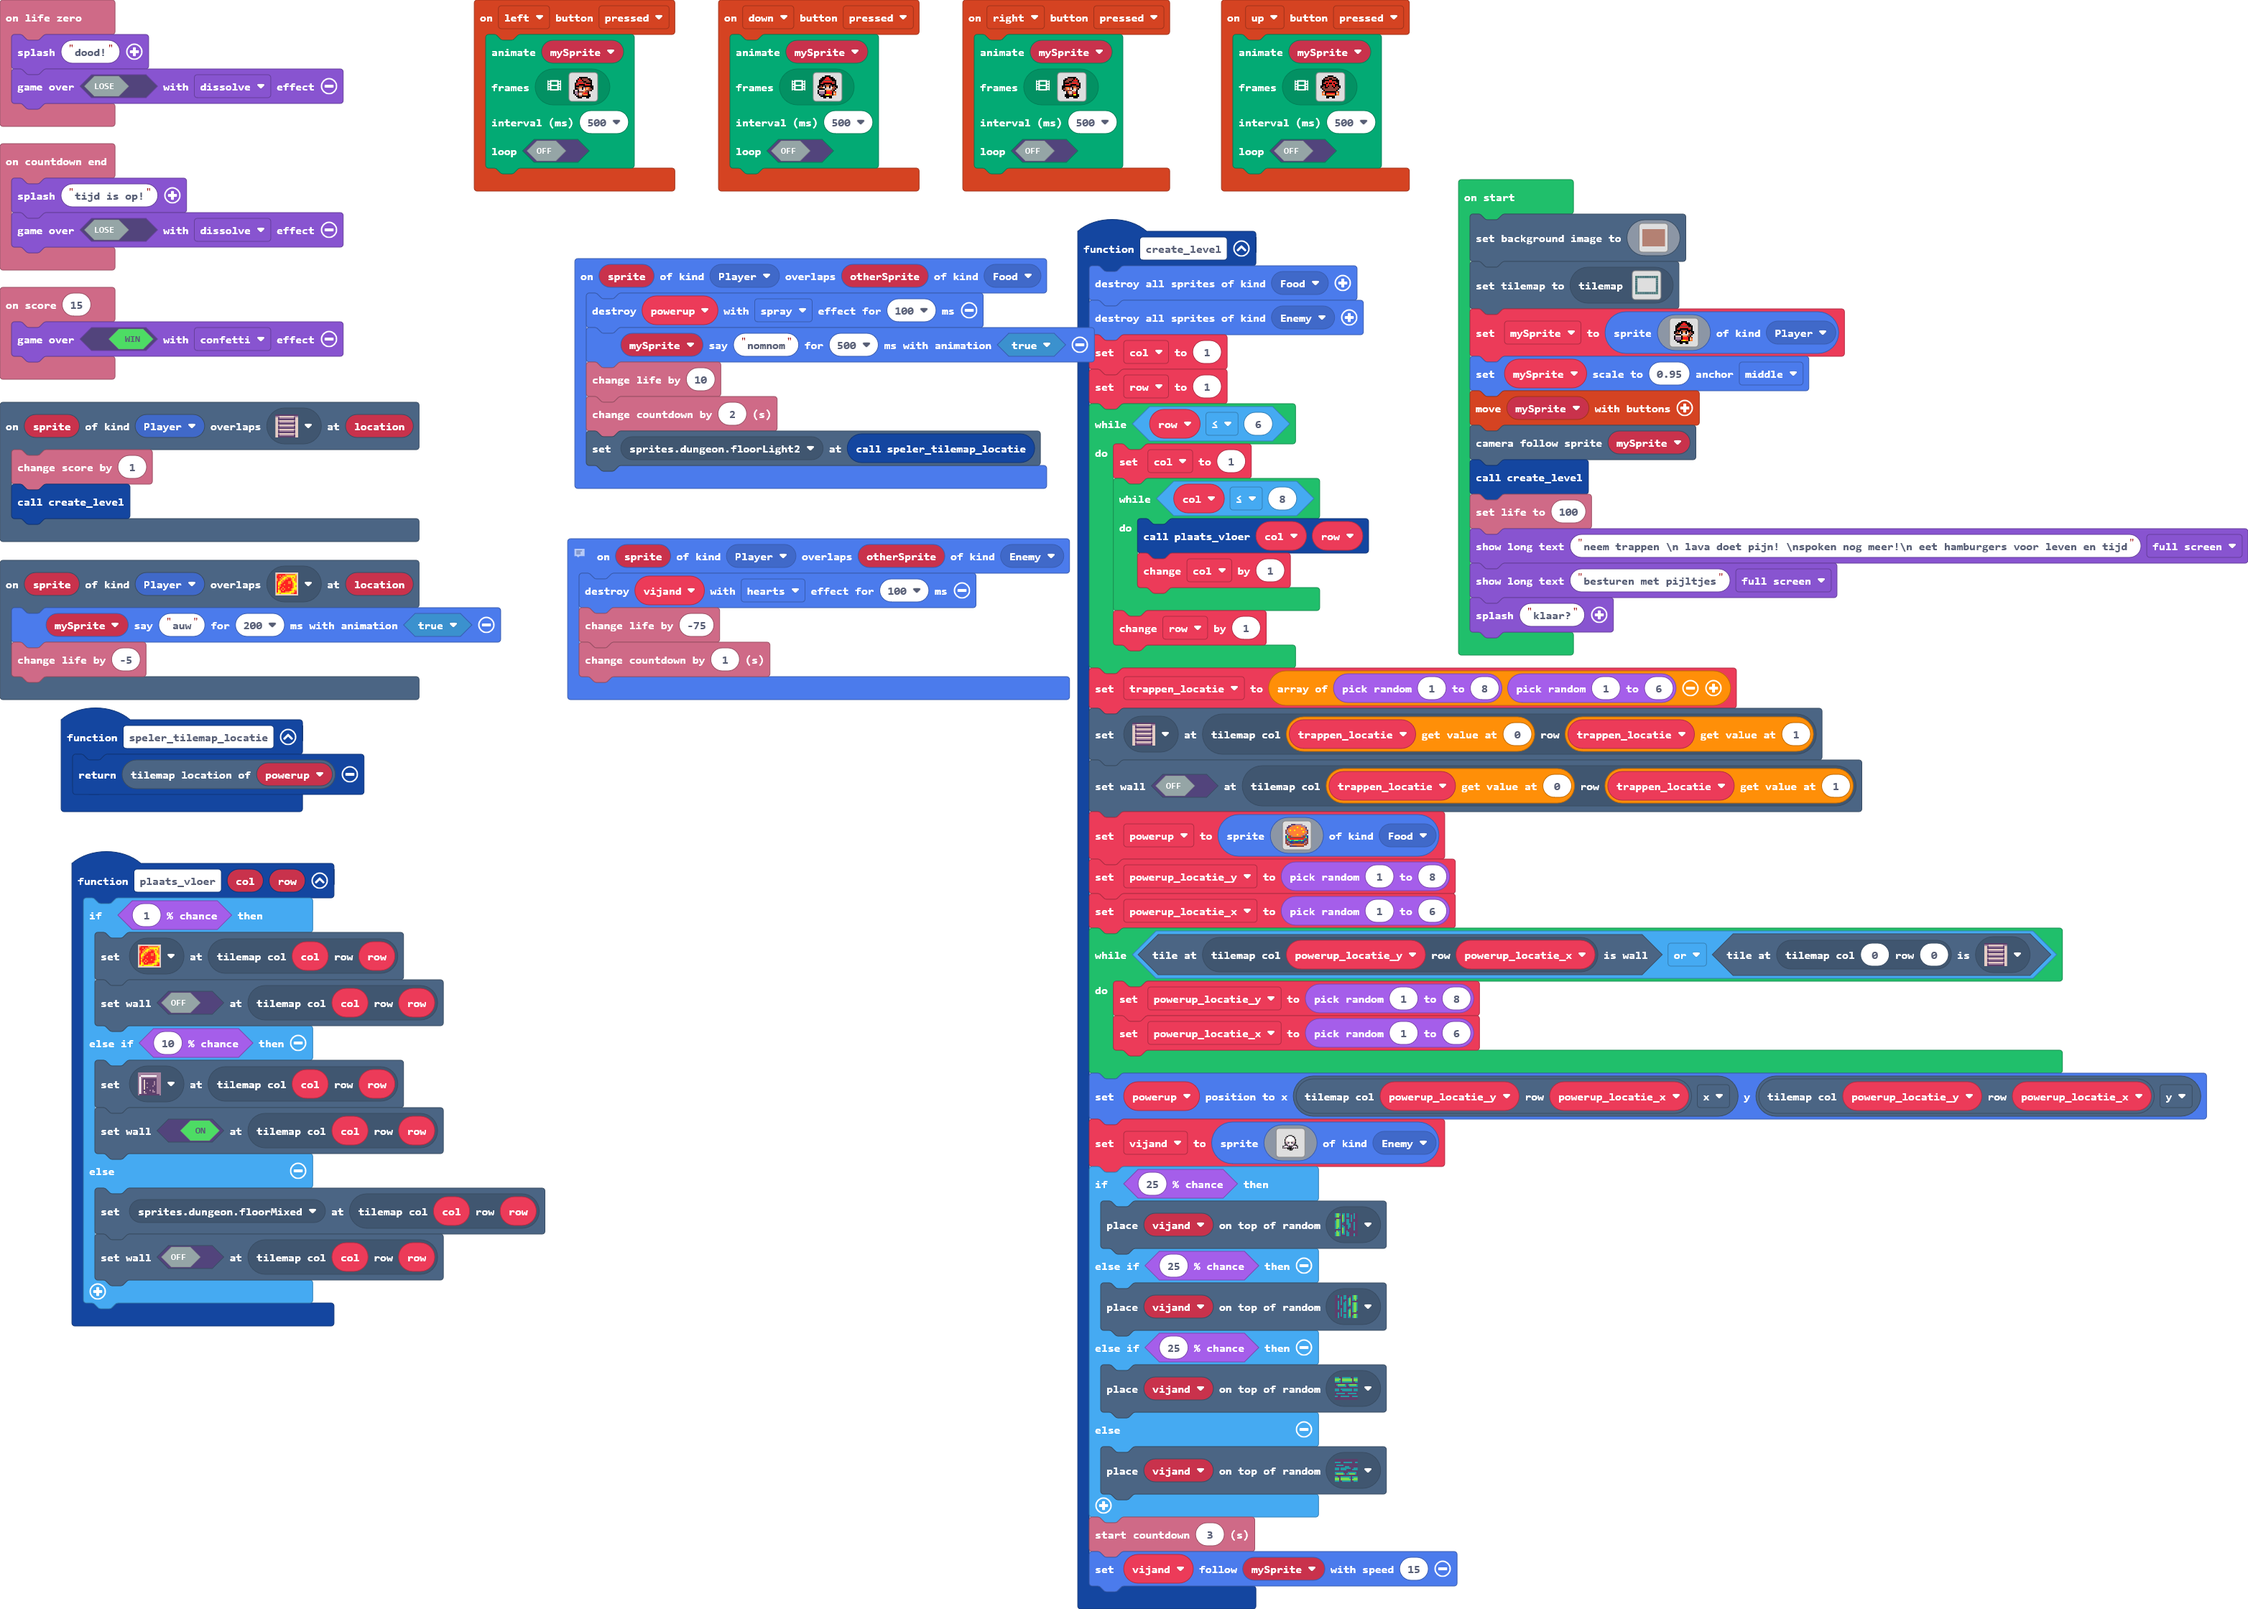
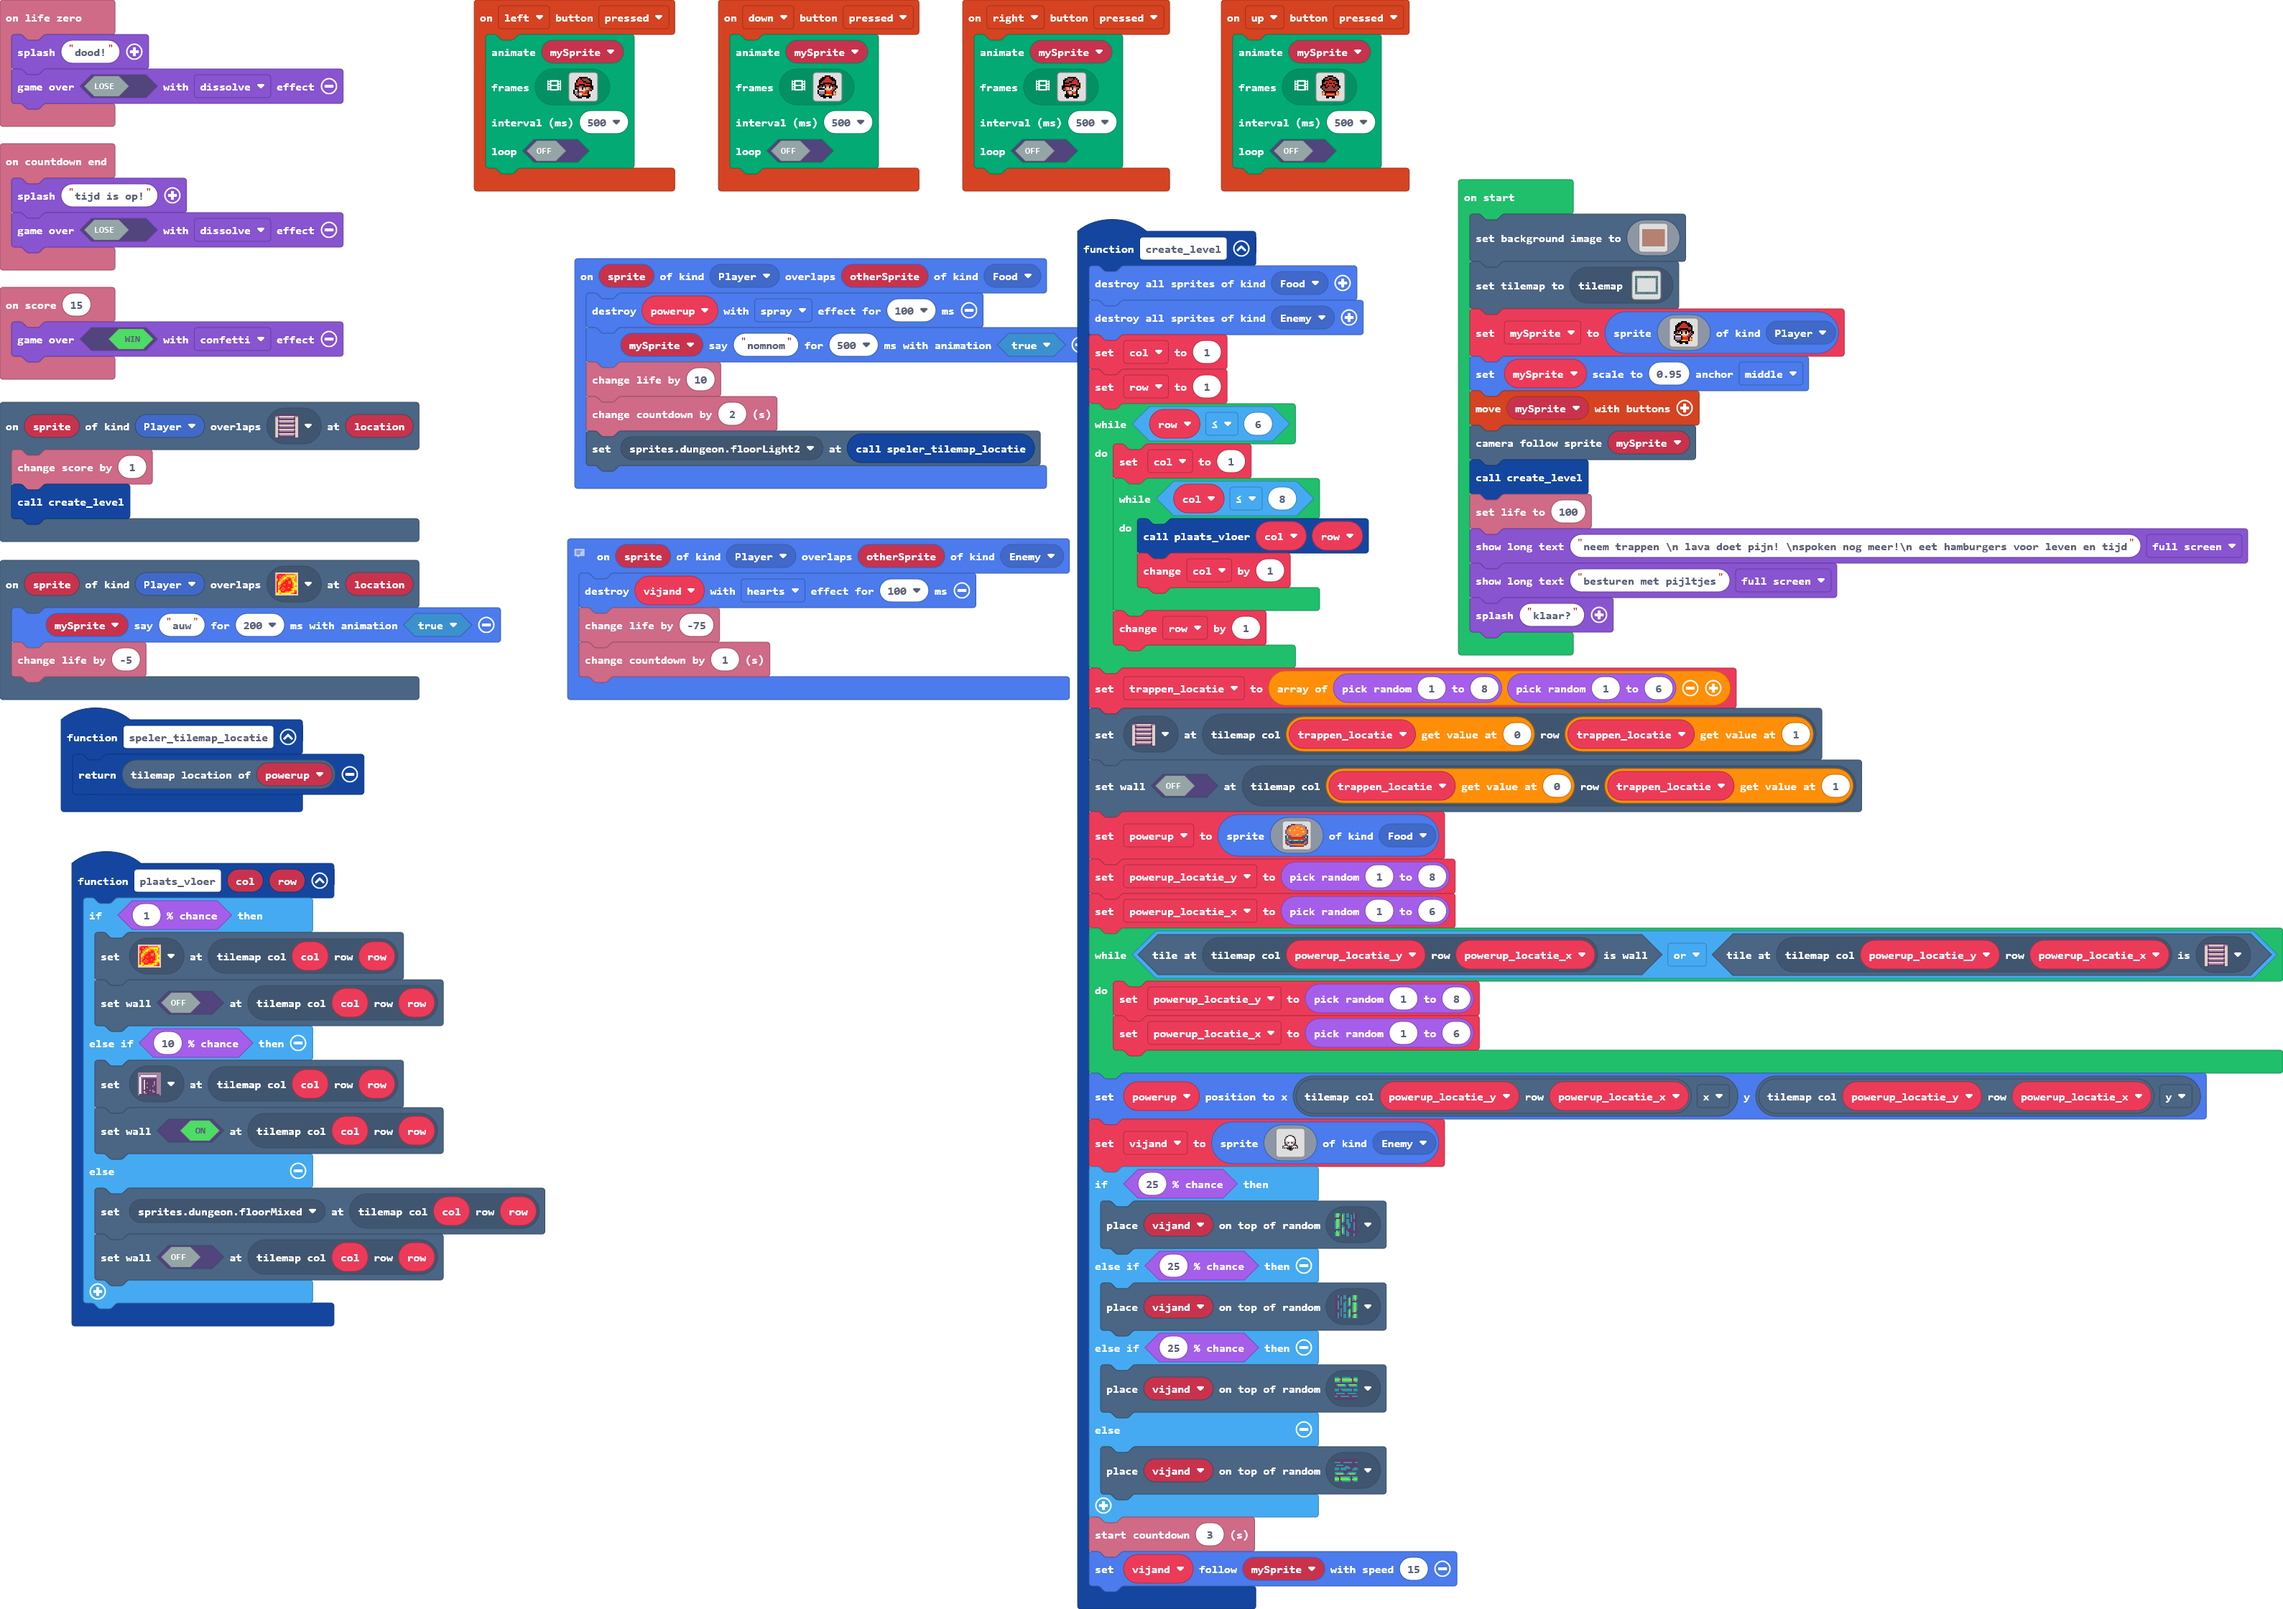
fix trappen == powerup locatie

diff --git a/main.ts b/main.ts
@@ -360,7 +360,7 @@ function create_level () {
         `, SpriteKind.Food)
     powerup_locatie_y = randint(1, 8)
     powerup_locatie_x = randint(1, 6)
-    while (tiles.tileAtLocationIsWall(tiles.getTileLocation(powerup_locatie_y, powerup_locatie_x)) || tiles.tileAtLocationEquals(tiles.getTileLocation(0, 0), assets.tile`stairSouth`)) {
+    while (tiles.tileAtLocationIsWall(tiles.getTileLocation(powerup_locatie_y, powerup_locatie_x)) || tiles.tileAtLocationEquals(tiles.getTileLocation(powerup_locatie_y, powerup_locatie_x), assets.tile`stairSouth`)) {
         powerup_locatie_y = randint(1, 8)
         powerup_locatie_x = randint(1, 6)
     }
